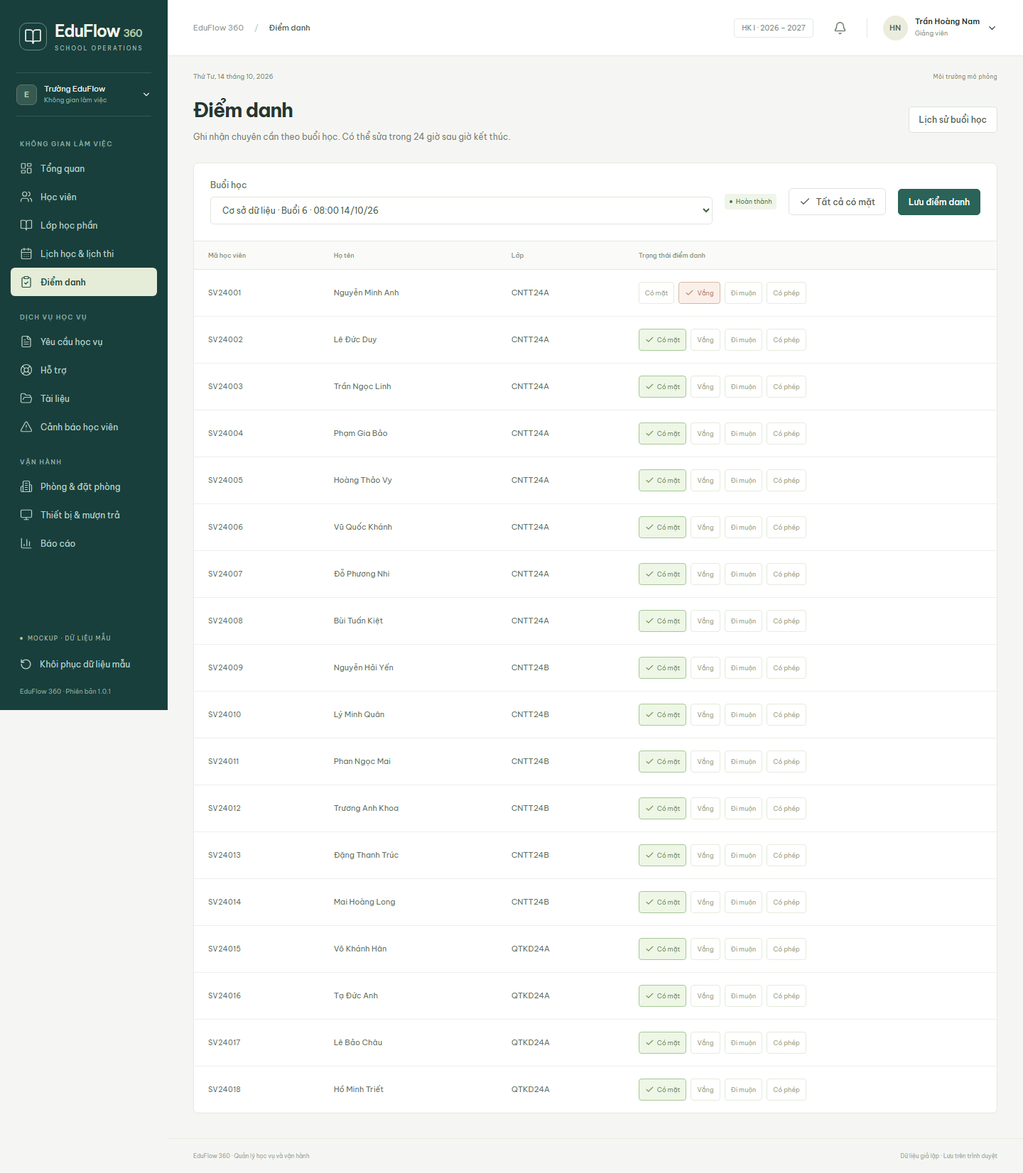
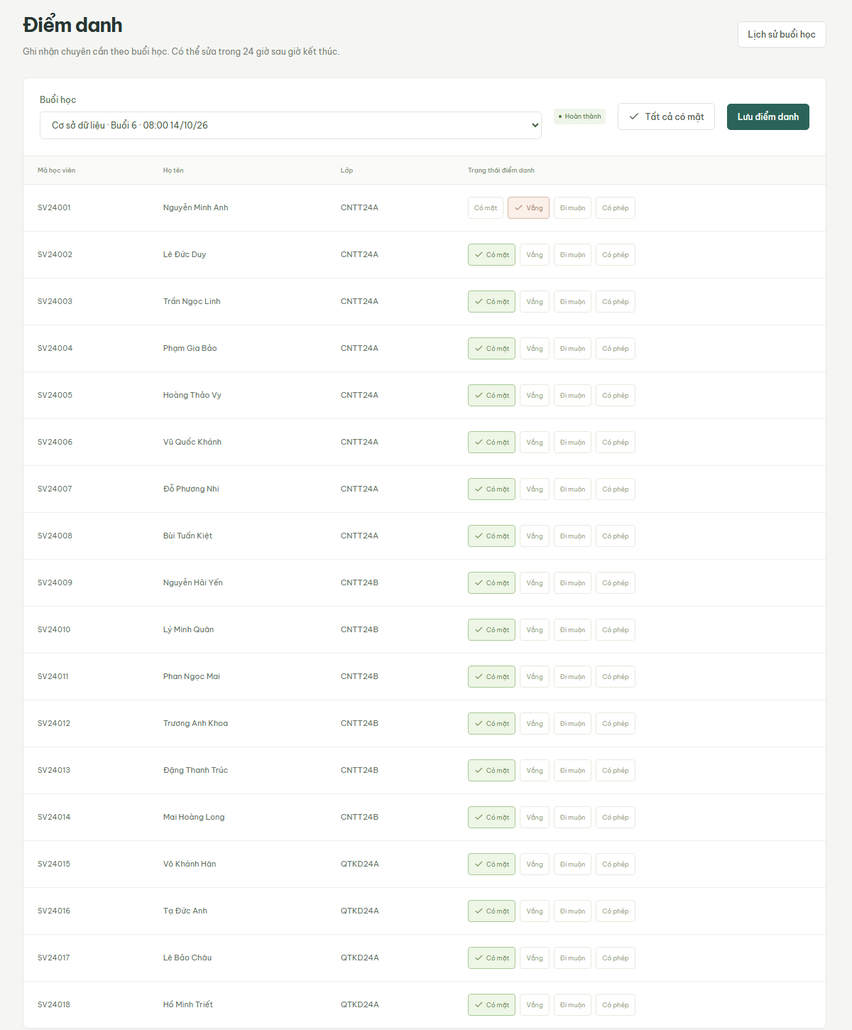
Remove AI references and clean project screenshot labels

diff --git a/index.html b/index.html
@@ -5,7 +5,7 @@
   <meta name="viewport" content="width=device-width, initial-scale=1">
   <meta name="description" content="Portfolio của Trịnh Văn Hải, Power Apps Developer với kinh nghiệm xây dựng ứng dụng và tự động hóa quy trình.">
   <title>Trịnh Văn Hải — Power Apps Developer</title>
-  <link rel="stylesheet" href="style.css?v=eduflow1">
+  <link rel="stylesheet" href="style.css?v=20261117">
   <script src="app.js" defer></script>
 </head>
 <body>
@@ -13,13 +13,13 @@
 <header class="header"><a class="brand" href="#top" aria-label="Trịnh Văn Hải, home">H<span>.</span></a><nav aria-label="Main navigation"><a href="#project" data-vi="Dự án" data-en="Project">Dự án</a><a href="#skills" data-vi="Kỹ năng" data-en="Skills">Kỹ năng</a><a href="#about" data-vi="Học vấn" data-en="Education">Học vấn</a><a href="#contact" data-vi="Liên hệ" data-en="Contact">Liên hệ</a></nav><button id="language" type="button" aria-label="Switch to English">EN <span>↗</span></button></header>
 <main id="main">
 <section class="hero wrap" id="top"><div class="hero-copy"><p class="eyebrow"><span class="dot"></span> POWER PLATFORM · PORTFOLIO</p><h1 data-vi="Biến quy trình<br>thành giải pháp<br><em>dễ sử dụng.</em>" data-en="Turning processes<br>into solutions<br><em>people can use.</em>">Biến quy trình<br>thành giải pháp<br><em>dễ sử dụng.</em></h1><p class="intro" data-vi="Tôi là Trịnh Văn Hải, Power Apps Developer. Tôi xây dựng ứng dụng và tự động hóa quy trình, giúp công việc hàng ngày rõ ràng và kết nối hơn." data-en="I'm Trinh Van Hai, a Power Apps Developer. I build applications and automate workflows to make everyday work clearer and more connected.">Tôi là Trịnh Văn Hải, Power Apps Developer. Tôi xây dựng ứng dụng và tự động hóa quy trình, giúp công việc hàng ngày rõ ràng và kết nối hơn.</p><div class="hero-actions"><a class="button primary" href="#project" data-vi="Xem dự án <span>↗</span>" data-en="Explore my work <span>↗</span>">Xem dự án <span>↗</span></a><a class="text-link" href="mailto:tvhai819@gmail.com" data-vi="Gửi email cho tôi ↗" data-en="Email me ↗">Gửi email cho tôi ↗</a></div></div><div class="hero-aside" aria-hidden="true"><div class="aside-top">TH / 01 <span>PORTFOLIO</span></div><div class="monogram">H<span>.</span></div><div class="aside-bottom"><span>TRỊNH VĂN HẢI</span><span>POWER APPS<br>DEVELOPER</span></div></div></section>
-<div class="strip"><div class="wrap strip-inner"><span>POWER APPS</span><span>POWER AUTOMATE</span><span>SHAREPOINT</span><span>DATAVERSE</span><span>AI-ASSISTED DEVELOPMENT</span></div></div>
-<section class="section wrap" id="project"><div class="section-heading"><div><p class="eyebrow">01 / <span data-vi="DỰ ÁN TIÊU BIỂU" data-en="SELECTED WORK">DỰ ÁN TIÊU BIỂU</span></p><h2 data-vi="Từ nhu cầu thực tế<br>đến ứng dụng vận hành." data-en="From a real need<br>to a working application.">Từ nhu cầu thực tế<br>đến ứng dụng vận hành.</h2></div><p class="heading-note" data-vi="Các dự án về kiểm tra chất lượng và quản lý học vụ. Dự án khách hàng được trình bày ẩn danh." data-en="Projects in quality inspection and academic operations. Client work is presented anonymously.">Các dự án về kiểm tra chất lượng và quản lý học vụ. Dự án khách hàng được trình bày ẩn danh.</p></div><article class="project"><div class="project-visual real-visual"><img src="assets/dashboard.jpg?v=full2" alt="Bảng tổng quan chất lượng với dữ liệu minh họa" loading="lazy"><p class="visual-caption" data-vi="Dashboard chất lượng với dữ liệu minh họa" data-en="Quality dashboard with sample data">Giao diện thực tế đã cắt bỏ thông tin nhận diện</p></div><div class="project-copy"><div class="project-index">CLIENT PROJECT <span>01 / 02</span></div><h3 data-vi="Hệ thống kiểm tra<br>chất lượng" data-en="Quality inspection<br>system">Hệ thống kiểm tra<br>chất lượng</h3><p data-vi="Ứng dụng hỗ trợ quy trình kiểm tra sản phẩm: từ checklist và bằng chứng đến xác nhận, theo dõi kết quả không đạt và báo cáo." data-en="An application supporting product inspection, from checklists and evidence to approvals, tracking nonconforming results and reporting.">Ứng dụng hỗ trợ quy trình kiểm tra sản phẩm: từ checklist và bằng chứng đến xác nhận, theo dõi kết quả không đạt và báo cáo.</p><div class="project-detail"><span data-vi="VAI TRÒ" data-en="ROLE">VAI TRÒ</span><p data-vi="Trực tiếp xây dựng ứng dụng, cấu trúc dữ liệu, luồng tự động và tài liệu bàn giao." data-en="Built the application, data structures, automated workflows and handover documentation.">Trực tiếp xây dựng ứng dụng, cấu trúc dữ liệu, luồng tự động và tài liệu bàn giao.</p></div><div class="tags"><span>Power Apps</span><span>Power Automate</span><span>SharePoint</span><span>Power Fx</span></div></div></article><div class="experience-detail"><div class="experience-lead"><p class="eyebrow" data-vi="CHI TIẾT KINH NGHIỆM" data-en="EXPERIENCE IN DETAIL">CHI TIẾT KINH NGHIỆM</p><h3 data-vi="Tôi đã thực hiện những gì?" data-en="What did I build?">Tôi đã thực hiện những gì?</h3><p data-vi="Tôi trực tiếp xây dựng hệ thống từ giao diện, dữ liệu đến tự động hóa và bàn giao cho người dùng." data-en="I built the system end to end, from interfaces and data to automation and user handover.">Tôi trực tiếp xây dựng hệ thống từ giao diện, dữ liệu đến tự động hóa và bàn giao cho người dùng.</p></div><div class="experience-items"><div><span>01</span><div><h4 data-vi="Ứng dụng kiểm tra" data-en="Inspection application">Ứng dụng kiểm tra</h4><p data-vi="Xây dựng Canvas App cho Operator, QA, Supervisor và quản lý: tạo phiếu theo checklist, đánh giá từng điểm, thêm ghi chú và ảnh, lưu nháp và gửi xác nhận." data-en="Built a Canvas App for operators, QA, supervisors and managers: create checklist-based inspections, assess items, add notes and photos, save drafts and submit for review.">Xây dựng Canvas App cho Operator, QA, Supervisor và quản lý: tạo phiếu theo checklist, đánh giá từng điểm, thêm ghi chú và ảnh, lưu nháp và gửi xác nhận.</p></div></div><div><span>02</span><div><h4 data-vi="Phê duyệt và xử lý không đạt" data-en="Approval and nonconformance">Phê duyệt và xử lý không đạt</h4><p data-vi="Thiết kế luồng xác nhận theo vai trò, đối chiếu phiếu Operator và QA, theo dõi hồ sơ không đạt và hỗ trợ kiểm tra lại." data-en="Designed role-based approvals, reconciliation of operator and QA inspections, tracking of nonconformances and reinspection.">Thiết kế luồng xác nhận theo vai trò, đối chiếu phiếu Operator và QA, theo dõi hồ sơ không đạt và hỗ trợ kiểm tra lại.</p></div></div><div><span>03</span><div><h4 data-vi="Dữ liệu và tự động hóa" data-en="Data and automation">Dữ liệu và tự động hóa</h4><p data-vi="Thiết kế dữ liệu trên SharePoint; xây dựng Power Automate để xử lý phiếu, thông báo, nhắc việc quá hạn, lưu trữ ảnh và tổng hợp số liệu báo cáo." data-en="Designed SharePoint data structures and Power Automate flows for inspection processing, notifications, overdue reminders, evidence storage and reporting metrics.">Thiết kế dữ liệu trên SharePoint; xây dựng Power Automate để xử lý phiếu, thông báo, nhắc việc quá hạn, lưu trữ ảnh và tổng hợp số liệu báo cáo.</p></div></div><div><span>04</span><div><h4 data-vi="Triển khai và bàn giao" data-en="Delivery and handover">Triển khai và bàn giao</h4><p data-vi="Đóng gói solution cho môi trường phát triển và vận hành; chuẩn bị tài liệu kỹ thuật, hướng dẫn theo vai trò và bộ kiểm thử người dùng." data-en="Packaged solutions for development and production, and prepared technical documentation, role-based guides and user test cases.">Đóng gói solution cho môi trường phát triển và vận hành; chuẩn bị tài liệu kỹ thuật, hướng dẫn theo vai trò và bộ kiểm thử người dùng.</p></div></div></div></div><figure class="detail-screenshot"><img src="assets/checklist.jpg?v=full2" alt="Giao diện chấm checklist với các lựa chọn Pass và Fail" loading="lazy"><figcaption data-vi="Giao diện thực tế: ghi nhận kết quả từng điểm kiểm, sử dụng dữ liệu minh họa." data-en="Actual interface: recording checklist results with sample data.">Giao diện thực tế: ghi nhận kết quả từng điểm kiểm, sử dụng dữ liệu minh họa.</figcaption></figure><div class="gallery"><figure><img src="assets/approval.jpg?v=full2" alt="Hộp thoại xác nhận phiếu kiểm tra" loading="lazy"><figcaption data-vi="Phê duyệt phiếu kiểm tra" data-en="Inspection approval">Phê duyệt phiếu kiểm tra</figcaption></figure><figure><img src="assets/charts.jpg?v=full2" alt="Biểu đồ báo cáo chất lượng" loading="lazy"><figcaption data-vi="Biểu đồ báo cáo chất lượng" data-en="Quality reporting chart">Biểu đồ báo cáo chất lượng</figcaption></figure><figure><img src="assets/admin.jpg?v=full2" alt="Giao diện quản trị và cấu hình ứng dụng" loading="lazy"><figcaption data-vi="Quản trị và cấu hình ứng dụng" data-en="Application administration and configuration">Quản trị và cấu hình ứng dụng</figcaption></figure></div>
+<div class="strip"><div class="wrap strip-inner"><span>POWER APPS</span><span>POWER AUTOMATE</span><span>SHAREPOINT</span><span>DATAVERSE</span></div></div>
+<section class="section wrap" id="project"><div class="section-heading"><div><p class="eyebrow">01 / <span data-vi="DỰ ÁN TIÊU BIỂU" data-en="SELECTED WORK">DỰ ÁN TIÊU BIỂU</span></p><h2 data-vi="Từ nhu cầu thực tế<br>đến ứng dụng vận hành." data-en="From a real need<br>to a working application.">Từ nhu cầu thực tế<br>đến ứng dụng vận hành.</h2></div><p class="heading-note" data-vi="Các dự án về kiểm tra chất lượng và quản lý học vụ. Dự án khách hàng được trình bày ẩn danh." data-en="Projects in quality inspection and academic operations. Client work is presented anonymously.">Các dự án về kiểm tra chất lượng và quản lý học vụ. Dự án khách hàng được trình bày ẩn danh.</p></div><article class="project"><div class="project-visual real-visual"><img src="assets/dashboard.jpg?v=20261117" alt="Bảng tổng quan chất lượng" loading="lazy"><p class="visual-caption" data-vi="Tổng quan chất lượng" data-en="Quality dashboard">Tổng quan chất lượng</p></div><div class="project-copy"><div class="project-index">CLIENT PROJECT <span>01 / 02</span></div><h3 data-vi="Hệ thống kiểm tra<br>chất lượng" data-en="Quality inspection<br>system">Hệ thống kiểm tra<br>chất lượng</h3><p data-vi="Ứng dụng hỗ trợ quy trình kiểm tra sản phẩm: từ checklist và bằng chứng đến xác nhận, theo dõi kết quả không đạt và báo cáo." data-en="An application supporting product inspection, from checklists and evidence to approvals, tracking nonconforming results and reporting.">Ứng dụng hỗ trợ quy trình kiểm tra sản phẩm: từ checklist và bằng chứng đến xác nhận, theo dõi kết quả không đạt và báo cáo.</p><div class="project-detail"><span data-vi="VAI TRÒ" data-en="ROLE">VAI TRÒ</span><p data-vi="Trực tiếp xây dựng ứng dụng, cấu trúc dữ liệu, luồng tự động và tài liệu bàn giao." data-en="Built the application, data structures, automated workflows and handover documentation.">Trực tiếp xây dựng ứng dụng, cấu trúc dữ liệu, luồng tự động và tài liệu bàn giao.</p></div><div class="tags"><span>Power Apps</span><span>Power Automate</span><span>SharePoint</span><span>Power Fx</span></div></div></article><div class="experience-detail"><div class="experience-lead"><p class="eyebrow" data-vi="CHI TIẾT KINH NGHIỆM" data-en="EXPERIENCE IN DETAIL">CHI TIẾT KINH NGHIỆM</p><h3 data-vi="Tôi đã thực hiện những gì?" data-en="What did I build?">Tôi đã thực hiện những gì?</h3><p data-vi="Tôi trực tiếp xây dựng hệ thống từ giao diện, dữ liệu đến tự động hóa và bàn giao cho người dùng." data-en="I built the system end to end, from interfaces and data to automation and user handover.">Tôi trực tiếp xây dựng hệ thống từ giao diện, dữ liệu đến tự động hóa và bàn giao cho người dùng.</p></div><div class="experience-items"><div><span>01</span><div><h4 data-vi="Ứng dụng kiểm tra" data-en="Inspection application">Ứng dụng kiểm tra</h4><p data-vi="Xây dựng Canvas App cho Operator, QA, Supervisor và quản lý: tạo phiếu theo checklist, đánh giá từng điểm, thêm ghi chú và ảnh, lưu nháp và gửi xác nhận." data-en="Built a Canvas App for operators, QA, supervisors and managers: create checklist-based inspections, assess items, add notes and photos, save drafts and submit for review.">Xây dựng Canvas App cho Operator, QA, Supervisor và quản lý: tạo phiếu theo checklist, đánh giá từng điểm, thêm ghi chú và ảnh, lưu nháp và gửi xác nhận.</p></div></div><div><span>02</span><div><h4 data-vi="Phê duyệt và xử lý không đạt" data-en="Approval and nonconformance">Phê duyệt và xử lý không đạt</h4><p data-vi="Thiết kế luồng xác nhận theo vai trò, đối chiếu phiếu Operator và QA, theo dõi hồ sơ không đạt và hỗ trợ kiểm tra lại." data-en="Designed role-based approvals, reconciliation of operator and QA inspections, tracking of nonconformances and reinspection.">Thiết kế luồng xác nhận theo vai trò, đối chiếu phiếu Operator và QA, theo dõi hồ sơ không đạt và hỗ trợ kiểm tra lại.</p></div></div><div><span>03</span><div><h4 data-vi="Dữ liệu và tự động hóa" data-en="Data and automation">Dữ liệu và tự động hóa</h4><p data-vi="Thiết kế dữ liệu trên SharePoint; xây dựng Power Automate để xử lý phiếu, thông báo, nhắc việc quá hạn, lưu trữ ảnh và tổng hợp số liệu báo cáo." data-en="Designed SharePoint data structures and Power Automate flows for inspection processing, notifications, overdue reminders, evidence storage and reporting metrics.">Thiết kế dữ liệu trên SharePoint; xây dựng Power Automate để xử lý phiếu, thông báo, nhắc việc quá hạn, lưu trữ ảnh và tổng hợp số liệu báo cáo.</p></div></div><div><span>04</span><div><h4 data-vi="Triển khai và bàn giao" data-en="Delivery and handover">Triển khai và bàn giao</h4><p data-vi="Đóng gói solution cho môi trường phát triển và vận hành; chuẩn bị tài liệu kỹ thuật, hướng dẫn theo vai trò và bộ kiểm thử người dùng." data-en="Packaged solutions for development and production, and prepared technical documentation, role-based guides and user test cases.">Đóng gói solution cho môi trường phát triển và vận hành; chuẩn bị tài liệu kỹ thuật, hướng dẫn theo vai trò và bộ kiểm thử người dùng.</p></div></div></div></div><figure class="detail-screenshot"><img src="assets/checklist.jpg?v=20261117" alt="Giao diện chấm checklist với các lựa chọn Pass và Fail" loading="lazy"><figcaption data-vi="Ghi nhận kết quả từng điểm kiểm" data-en="Record the result of each inspection item">Ghi nhận kết quả từng điểm kiểm</figcaption></figure><div class="gallery"><figure><img src="assets/approval.jpg?v=20261117" alt="Hộp thoại xác nhận phiếu kiểm tra" loading="lazy"><figcaption data-vi="Phê duyệt phiếu kiểm tra" data-en="Inspection approval">Phê duyệt phiếu kiểm tra</figcaption></figure><figure><img src="assets/charts.jpg?v=20261117" alt="Biểu đồ báo cáo chất lượng" loading="lazy"><figcaption data-vi="Biểu đồ báo cáo chất lượng" data-en="Quality reporting chart">Biểu đồ báo cáo chất lượng</figcaption></figure><figure><img src="assets/admin.jpg?v=20261117" alt="Giao diện quản trị và cấu hình ứng dụng" loading="lazy"><figcaption data-vi="Quản trị và cấu hình ứng dụng" data-en="Application administration and configuration">Quản trị và cấu hình ứng dụng</figcaption></figure></div>
 <div class="project-case" id="eduflow-360">
   <article class="project" aria-labelledby="eduflow-title">
     <div class="project-visual real-visual eduflow-visual">
-      <img src="assets/eduflow-dashboard.png" width="1440" height="1334" alt="Mockup EduFlow 360: tổng quan học vụ, yêu cầu cần xử lý và lịch học với dữ liệu mẫu" loading="lazy">
-      <p class="visual-caption" data-vi="Mockup EduFlow 360 · Dữ liệu mẫu" data-en="EduFlow 360 prototype · Sample data">Mockup EduFlow 360 · Dữ liệu mẫu</p>
+      <img src="assets/eduflow-dashboard.png?v=20261117" width="1200" height="1035" alt="EduFlow 360: tổng quan học vụ, yêu cầu cần xử lý và lịch học" loading="lazy">
+      <p class="visual-caption" data-vi="EduFlow 360 · Tổng quan học vụ" data-en="EduFlow 360 · Academic overview">EduFlow 360 · Tổng quan học vụ</p>
     </div>
     <div class="project-copy">
       <div class="project-index"><span data-vi="DỰ ÁN CÁ NHÂN" data-en="PERSONAL PROJECT">DỰ ÁN CÁ NHÂN</span><span>02 / 02</span></div>
@@ -27,15 +27,15 @@
       <p data-vi="Ứng dụng quản lý học vụ và vận hành trường học: kết nối hồ sơ học viên, lớp học phần, lịch học, điểm danh, yêu cầu học vụ và phê duyệt trong cùng một quy trình." data-en="An academic operations application connecting student records, course sections, timetables, attendance, academic requests and approvals in one workflow.">Ứng dụng quản lý học vụ và vận hành trường học: kết nối hồ sơ học viên, lớp học phần, lịch học, điểm danh, yêu cầu học vụ và phê duyệt trong cùng một quy trình.</p>
       <div class="project-detail">
         <span data-vi="VAI TRÒ" data-en="ROLE">VAI TRÒ</span>
-        <p data-vi="Phân tích nghiệp vụ, xây dựng mockup tương tác và chuyển thiết kế sang Canvas App, cấu trúc dữ liệu SharePoint và các luồng Power Automate, với AI hỗ trợ phát triển." data-en="Analyzed requirements, built the interactive prototype and mapped it to a Canvas App, SharePoint data structures and Power Automate workflows, with AI-assisted development.">Phân tích nghiệp vụ, xây dựng mockup tương tác và chuyển thiết kế sang Canvas App, cấu trúc dữ liệu SharePoint và các luồng Power Automate, với AI hỗ trợ phát triển.</p>
+        <p data-vi="Phân tích nghiệp vụ, thiết kế giao diện tương tác và chuyển thiết kế sang Canvas App, cấu trúc dữ liệu SharePoint và các luồng Power Automate." data-en="Analyzed requirements, designed interactive interfaces and mapped them to a Canvas App, SharePoint data structures and Power Automate workflows.">Phân tích nghiệp vụ, thiết kế giao diện tương tác và chuyển thiết kế sang Canvas App, cấu trúc dữ liệu SharePoint và các luồng Power Automate.</p>
       </div>
-      <p class="project-status" data-vi="Đang phát triển trên môi trường dev · Hình ảnh từ mockup tương tác." data-en="In development in a dev environment · Images from the interactive prototype.">Đang phát triển trên môi trường dev · Hình ảnh từ mockup tương tác.</p>
+      <p class="project-status" data-vi="Đang phát triển trên môi trường dev." data-en="In development in a dev environment.">Đang phát triển trên môi trường dev.</p>
       <div class="tags"><span>Canvas Apps</span><span>Power Automate</span><span>SharePoint</span><span>Power Fx</span><span>React · TypeScript</span></div>
     </div>
   </article>
   <div class="experience-detail">
     <div class="experience-lead">
-      <p class="eyebrow" data-vi="TỪ MOCKUP ĐẾN POWER PLATFORM" data-en="FROM PROTOTYPE TO POWER PLATFORM">TỪ MOCKUP ĐẾN POWER PLATFORM</p>
+      <p class="eyebrow" data-vi="THIẾT KẾ & TRIỂN KHAI" data-en="DESIGN & IMPLEMENTATION">THIẾT KẾ & TRIỂN KHAI</p>
       <h3 data-vi="Một không gian cho nhiều nghiệp vụ." data-en="One workspace for connected operations.">Một không gian cho nhiều nghiệp vụ.</h3>
       <p data-vi="Thiết kế giao diện và luồng thao tác theo sáu vai trò nghiệp vụ, có chức năng đổi vai nhanh trên tài khoản dev để thử các tình huống sử dụng." data-en="Designed interfaces and journeys for six business roles, with quick role switching under a dev account to explore different usage scenarios.">Thiết kế giao diện và luồng thao tác theo sáu vai trò nghiệp vụ, có chức năng đổi vai nhanh trên tài khoản dev để thử các tình huống sử dụng.</p>
     </div>
@@ -46,13 +46,13 @@
     </div>
   </div>
   <div class="gallery">
-    <figure><img src="assets/eduflow-attendance.png" width="1440" height="1652" alt="Mockup EduFlow 360: điểm danh học viên theo buổi học với dữ liệu mẫu" loading="lazy"><figcaption data-vi="Mockup: điểm danh theo buổi và trạng thái chuyên cần." data-en="Prototype: session attendance and attendance statuses.">Mockup: điểm danh theo buổi và trạng thái chuyên cần.</figcaption></figure>
-    <figure><img src="assets/eduflow-approval.png" width="1440" height="1000" alt="Mockup EduFlow 360: chi tiết yêu cầu học vụ và tiến trình phê duyệt với dữ liệu mẫu" loading="lazy"><figcaption data-vi="Mockup: yêu cầu học vụ, tài liệu và tiến trình phê duyệt." data-en="Prototype: academic request, supporting document and approval progress.">Mockup: yêu cầu học vụ, tài liệu và tiến trình phê duyệt.</figcaption></figure>
+    <figure><img src="assets/eduflow-attendance.png?v=20261117" width="1200" height="1450" alt="EduFlow 360: điểm danh học viên theo buổi học" loading="lazy"><figcaption data-vi="điểm danh theo buổi và trạng thái chuyên cần." data-en="session attendance and attendance statuses.">điểm danh theo buổi và trạng thái chuyên cần.</figcaption></figure>
+    <figure><img src="assets/eduflow-approval.png?v=20261117" width="1200" height="605" alt="EduFlow 360: chi tiết yêu cầu học vụ và tiến trình phê duyệt" loading="lazy"><figcaption data-vi="yêu cầu học vụ, tài liệu và tiến trình phê duyệt." data-en="academic request, supporting document and approval progress.">yêu cầu học vụ, tài liệu và tiến trình phê duyệt.</figcaption></figure>
   </div>
 </div>
 
 </section>
-<section class="section skills-section" id="skills"><div class="wrap"><div class="section-heading"><div><p class="eyebrow">02 / <span data-vi="KỸ NĂNG" data-en="CAPABILITIES">KỸ NĂNG</span></p><h2 data-vi="Công cụ phù hợp.<br>Giải pháp thiết thực." data-en="The right tools.<br>Practical solutions.">Công cụ phù hợp.<br>Giải pháp thiết thực.</h2></div><p class="heading-note" data-vi="Từ giao diện, dữ liệu đến tự động hóa và triển khai ứng dụng." data-en="From interfaces and data to automation and application delivery.">Từ giao diện, dữ liệu đến tự động hóa và triển khai ứng dụng.</p></div><div class="skill-list"><div class="skill-row"><span>01</span><h3>Power Apps</h3><p>Canvas Apps · Model-driven Apps · Power Fx · Components</p></div><div class="skill-row"><span>02</span><h3>Power Automate</h3><p data-vi="Cloud flows · Tự động hóa quy trình · Phê duyệt & thông báo" data-en="Cloud flows · Process automation · Approvals & notifications">Cloud flows · Tự động hóa quy trình · Phê duyệt & thông báo</p></div><div class="skill-row"><span>03</span><h3 data-vi="Dữ liệu & tích hợp" data-en="Data & integration">Dữ liệu & tích hợp</h3><p>SharePoint · Dataverse · SQL Server · REST APIs · JSON</p></div><div class="skill-row"><span>04</span><h3 data-vi="Triển khai & bảo mật" data-en="Delivery & security">Triển khai & bảo mật</h3><p>Solutions · ALM · Environment management · Security roles</p></div><div class="skill-row"><span>05</span><h3 data-vi="AI hỗ trợ phát triển" data-en="AI-assisted development">AI hỗ trợ phát triển</h3><p data-vi="Sử dụng AI hỗ trợ phân tích, viết công thức và phát triển ứng dụng" data-en="Using AI to support analysis, formula writing and application development">Sử dụng AI hỗ trợ phân tích, viết công thức và phát triển ứng dụng</p></div></div></div></section>
+<section class="section skills-section" id="skills"><div class="wrap"><div class="section-heading"><div><p class="eyebrow">02 / <span data-vi="KỸ NĂNG" data-en="CAPABILITIES">KỸ NĂNG</span></p><h2 data-vi="Công cụ phù hợp.<br>Giải pháp thiết thực." data-en="The right tools.<br>Practical solutions.">Công cụ phù hợp.<br>Giải pháp thiết thực.</h2></div><p class="heading-note" data-vi="Từ giao diện, dữ liệu đến tự động hóa và triển khai ứng dụng." data-en="From interfaces and data to automation and application delivery.">Từ giao diện, dữ liệu đến tự động hóa và triển khai ứng dụng.</p></div><div class="skill-list"><div class="skill-row"><span>01</span><h3>Power Apps</h3><p>Canvas Apps · Model-driven Apps · Power Fx · Components</p></div><div class="skill-row"><span>02</span><h3>Power Automate</h3><p data-vi="Cloud flows · Tự động hóa quy trình · Phê duyệt & thông báo" data-en="Cloud flows · Process automation · Approvals & notifications">Cloud flows · Tự động hóa quy trình · Phê duyệt & thông báo</p></div><div class="skill-row"><span>03</span><h3 data-vi="Dữ liệu & tích hợp" data-en="Data & integration">Dữ liệu & tích hợp</h3><p>SharePoint · Dataverse · SQL Server · REST APIs · JSON</p></div><div class="skill-row"><span>04</span><h3 data-vi="Triển khai & bảo mật" data-en="Delivery & security">Triển khai & bảo mật</h3><p>Solutions · ALM · Environment management · Security roles</p></div></div></div></section>
 <section class="section wrap about" id="about"><div><p class="eyebrow">03 / <span data-vi="HỌC VẤN" data-en="EDUCATION">HỌC VẤN</span></p><h2 data-vi="Một nền tảng<br>để tiếp tục học hỏi." data-en="A foundation<br>for continued learning.">Một nền tảng<br>để tiếp tục học hỏi.</h2></div><div class="education"><p class="education-date">09 / 2021 — 01 / 2026</p><h3 data-vi="Đại học Sài Gòn" data-en="Saigon University">Đại học Sài Gòn</h3><p data-vi="Khoa Công nghệ thông tin<br>Chuyên ngành Kỹ thuật phần mềm" data-en="Faculty of Information Technology<br>Major in Software Engineering">Khoa Công nghệ thông tin<br>Chuyên ngành Kỹ thuật phần mềm</p><div class="edu-bottom"><span data-vi="Bằng kỹ sư · Xếp loại Khá" data-en="Bachelor of Engineering · Good classification">Bằng kỹ sư · Xếp loại Khá</span><span data-vi="Tiếng Việt · Tiếng Anh B2" data-en="Vietnamese · English B2">Tiếng Việt · Tiếng Anh B2</span></div></div></section>
 <section class="contact" id="contact"><div class="wrap contact-inner"><div><p class="eyebrow">04 / <span data-vi="LIÊN HỆ" data-en="GET IN TOUCH">LIÊN HỆ</span></p><h2 data-vi="Cùng trao đổi về<br>cơ hội tiếp theo." data-en="Let's talk about<br>what's next.">Cùng trao đổi về<br>cơ hội tiếp theo.</h2><a class="contact-email" href="mailto:tvhai819@gmail.com">tvhai819@gmail.com <span>↗</span></a></div><div class="contact-details"><div><small data-vi="ĐIỆN THOẠI" data-en="PHONE">ĐIỆN THOẠI</small><a href="tel:0869728237">0869 728 237</a></div><div><small>GITHUB</small><a href="https://github.com/Hai129148" target="_blank" rel="noopener noreferrer">Hai129148 ↗</a></div></div></div></section>
 </main><footer><div class="wrap footer-inner"><span>© 2026 TRỊNH VĂN HẢI</span><span>POWER APPS DEVELOPER</span><a href="#top" data-vi="LÊN ĐẦU TRANG ↑" data-en="BACK TO TOP ↑">LÊN ĐẦU TRANG ↑</a></div></footer>
